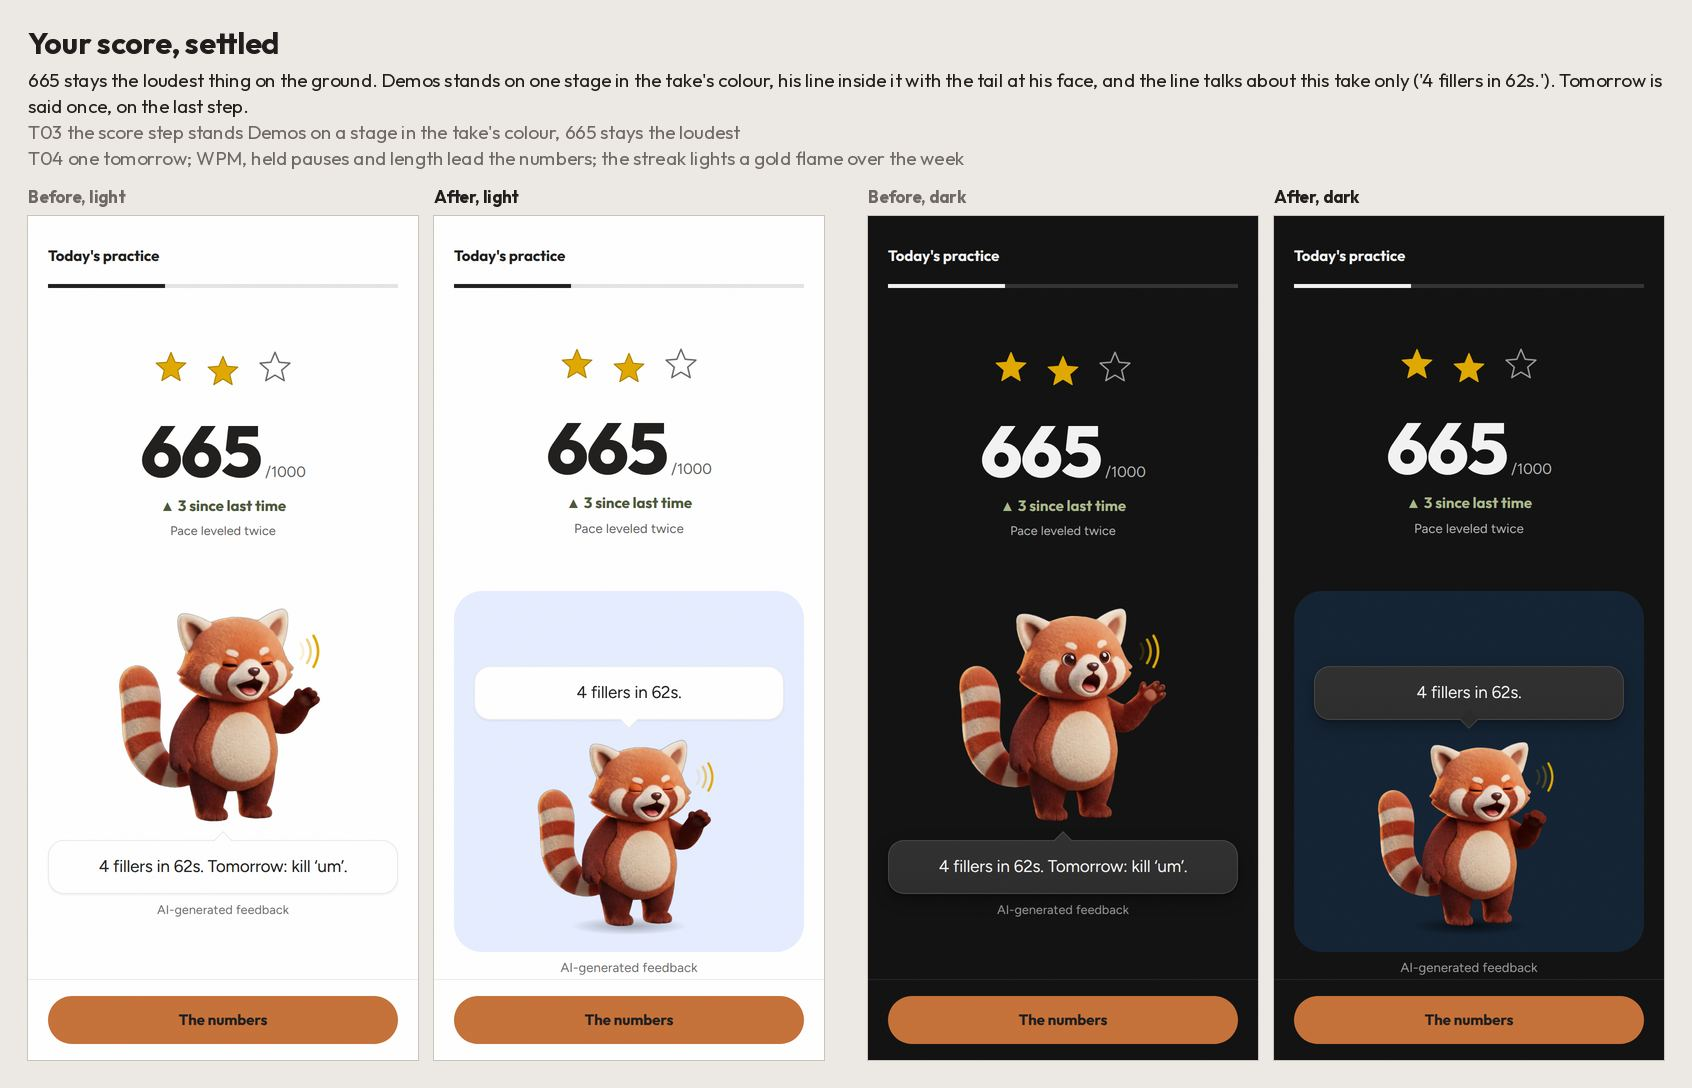
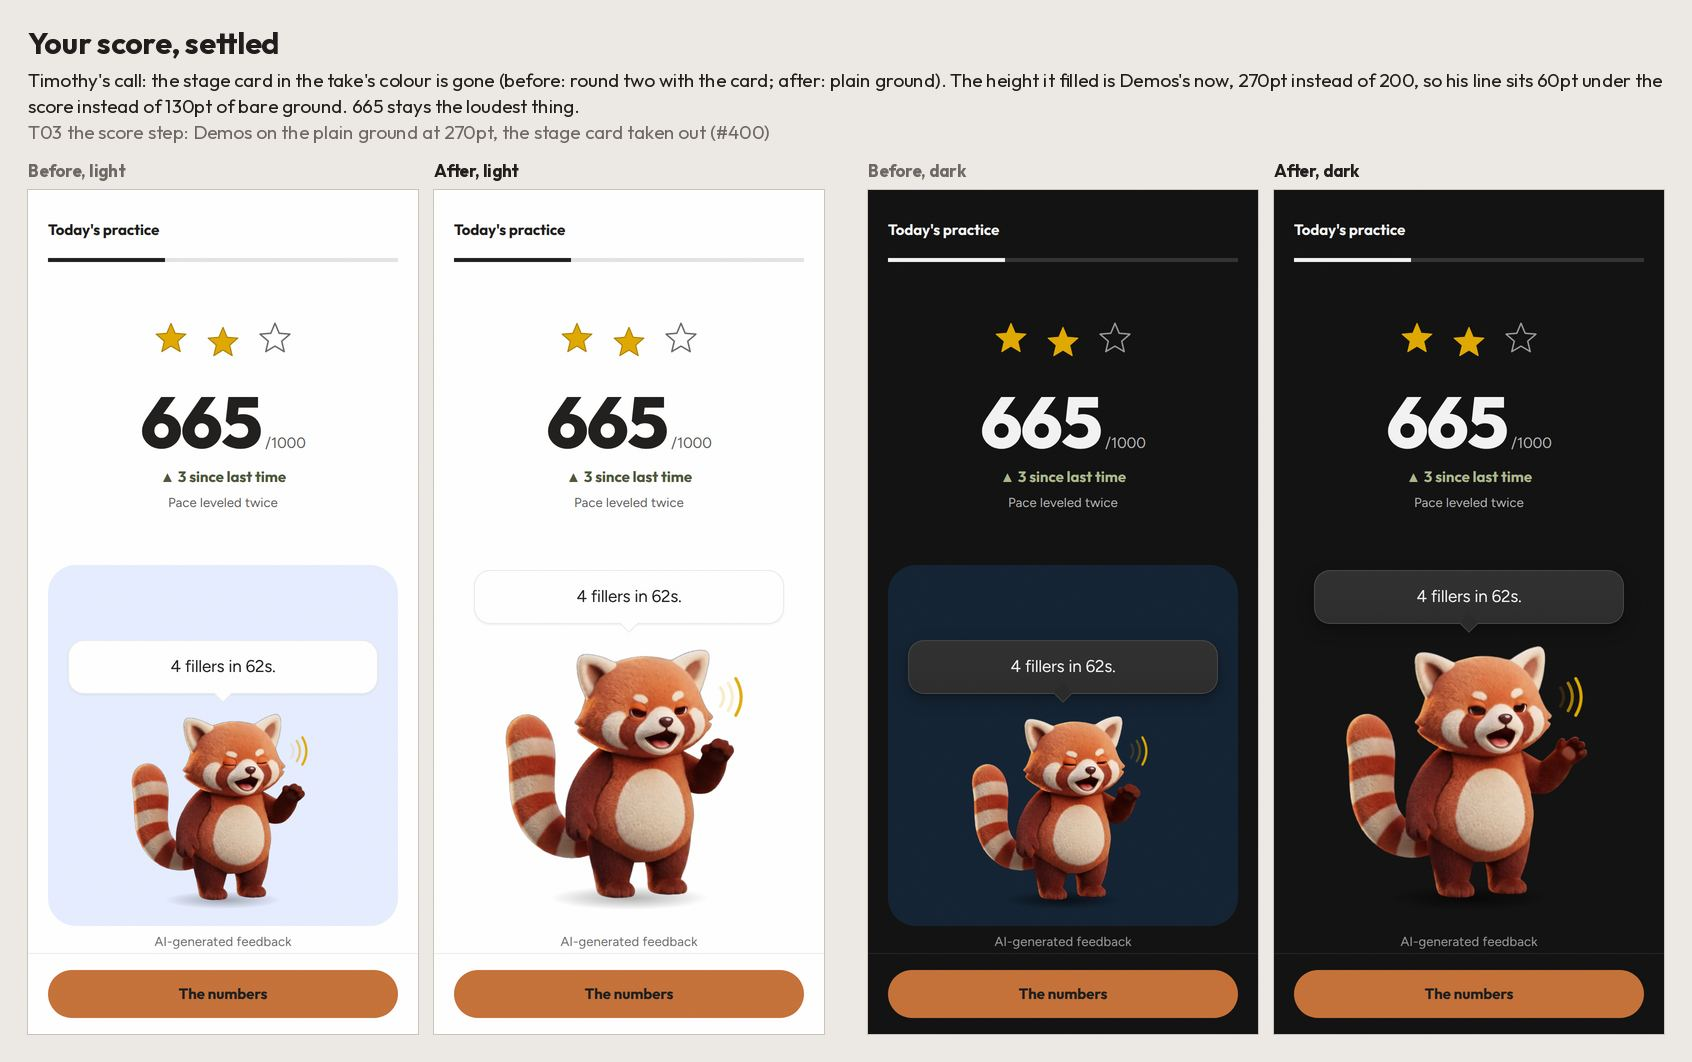
The score step's stage card is out: Demos stands on the plain ground and takes the height the card filled, up to 270pt on a tall phone, so his line sits 60pt under the score instead of 130pt of bare ground (#400)
Claude-Session: https://claude.ai/code/session_01KQpi1wPL2sdqgKKvt94vrP

diff --git a/components/RepResult.tsx b/components/RepResult.tsx
@@ -109,10 +109,9 @@ export function RepResult({
   celebrate?: boolean;
   /**
    * The score step fills a flex column (the recording page's walk): the
-   * score at the top, then Demos on a coach stage in the take's colour
-   * that takes all the free height (E55), then his line. The parent is
-   * a `flex flex-col` the height of the room, and sets `data-trait` to
-   * the practice's family (the sky's wash where it has none).
+   * score at the top, then Demos on the plain ground, sized to all the
+   * free height (E55), then his line. The parent is a `flex flex-col`
+   * the height of the room.
    */
   spread?: boolean;
 }) {
@@ -198,15 +197,14 @@ export function RepResult({
   );
 
   const spreads = spread && debrief;
-  /* On a phone 700pt or taller the stage has room for his line too:
+  /* On a phone 700pt or taller his room has space for his line too:
      it hangs over his head with its tail down at his face, so the step
-     reads as the score, then Demos saying it on his own ground (R2F-02:
-     at 390x844 the stage was 359pt holding only him, about 139pt of
-     bare wash over his ears, his line in a second card under it). On a
-     shorter phone the stage is about his height and the line hangs
-     under it, tail up. */
+     reads as the score, then Demos saying it (R2F-02: at 390x844 the
+     room was 359pt holding only him, about 139pt of bare ground over
+     his ears, his line in a second card under it). On a shorter phone
+     the room is about his height and the line hangs under it, tail up. */
   const tallRoom = useTallRoom();
-  const lineInStage = spreads && tallRoom;
+  const lineInRoom = spreads && tallRoom;
   const bubble = (tail: "up" | "down", className: string) => (
     <div
       className={`${className} ${timed ? "arrive" : ""}`}
@@ -217,11 +215,9 @@ export function RepResult({
       </SpeechBubble>
     </div>
   );
-  /* With his line in the stage, what the stage cannot use over his
-     head (about 120pt at 390x844) is shared out: up to 32pt over the
-     stars and 32pt over the stage, and the stage keeps the rest, so
-     the score breathes and the wash over his line stays under 80. */
-  const air = lineInStage ? <div aria-hidden className="max-h-8 flex-1" /> : null;
+  /* With his line in his room, up to 32pt of the spare height goes
+     over the stars so the score breathes; Demos takes the rest. */
+  const air = lineInRoom ? <div aria-hidden className="max-h-8 flex-1" /> : null;
   return (
     <>
       {show("score") && air}
@@ -230,8 +226,7 @@ export function RepResult({
           /* The debrief's score step (recording-6, M07, D52, E55): one
              centred column, stars first, then the number, one delta,
              one caption, on the ground 24px under the step bar; then
-             Demos on his stage and his line. Nothing floats off to one
-             side. */
+             Demos and his line. Nothing floats off to one side. */
           <div className={`flex flex-col items-center text-center ${spreads ? "mt-6 [@media(max-height:600px)]:mt-4" : ""}`}>
             {ethosIndex !== null ? (
               <>
@@ -323,37 +318,34 @@ export function RepResult({
         </p>
       )}
 
-      {show("score") && debrief && air}
       {show("score") && debrief && (
         /*
-         * E55, E58: the score step's free height is Demos's stage, not
+         * E55, E58: the score step's free height is Demos's, not bare
          * ground. Under the score (which stays the loudest thing, 665 at
-         * 72), a stage in the take's own colour (`--tone-wash` from the
-         * column's data-trait: #e6edff, #142333 dark, on a Pausing day;
-         * the sky's wash for the boss and the games) takes every spare
-         * pixel at radius 28, so the step reads as the score and a coach
-         * who stands somewhere. He stands centred on the introduction's
-         * soft contact shadow 20px over its foot, scaled to the stage
-         * (88 to 200: 100cqh less 20 over and 20 under), and his line
-         * hangs under it with its tail up at him. The celebrate pose,
-         * with its sparkles and burst, is only for a new best Index or
-         * three stars (lib/rewards `celebrates`). It used to be three
-         * even bands of bare ground with a 228px Demos as the step's
-         * biggest object (D52).
+         * 72), he stands centred on the introduction's soft contact
+         * shadow, scaled to every spare pixel, with his line over his
+         * head on a tall phone and under him on a short one. No card
+         * behind him: Timothy took the stage in the take's colour out
+         * (T03 reverted, #400), so he stands on the screen's own ground
+         * the way he does in the introduction, and the height the stage
+         * filled is his: up to 270 on a tall phone, where 200 left 130pt
+         * of bare ground over his line at 390x844. The celebrate
+         * pose, with its sparkles and burst, is only for a new best
+         * Index or three stars (lib/rewards `celebrates`).
          */
         <div className="flex w-full flex-1 flex-col items-center">
-          {/* The stage's room is an absolute inset-0 size container (as
+          {/* His room is an absolute inset-0 size container (as
               `.demos-fit-room`): a flex-grown box's own height is not one
               its container units can read. On a phone under 600px tall
               (320x568) there is no spare height to give: the score and
-              the stage close up 8px each, the stage takes what is left
+              the room close up 8px each, the room takes what is left
               over his line, so the line stays over the shelf, and he
               stands 8px over its foot from 64px up. */}
           <div
-            data-coach-stage
-            data-line-in-stage={lineInStage || undefined}
-            className={`relative mt-5 w-full rounded-[28px] bg-[var(--tone-wash,var(--pop-sky-wash))] [@media(max-height:600px)]:mt-3 ${
-              lineInStage
+            data-coach-room
+            data-line-in-room={lineInRoom || undefined}
+            className={`relative mt-5 w-full [@media(max-height:600px)]:mt-3 ${
+              lineInRoom
                 ? "min-h-[300px] flex-1"
                 : spreads
                   ? "min-h-[140px] flex-1 [@media(max-height:600px)]:min-h-0"
@@ -361,24 +353,24 @@ export function RepResult({
             }`}
           >
             <div className="absolute inset-0 [container-type:size]">
-            {/* With his line in the stage, he gives it two lines of room
-                (78), 12px to his head and 20 to the stage's top: 88 to
-                200 from 100cqh less 130. */}
+            {/* With his line in his room, he gives it two lines of space
+                (78) and 12px to his head: 88 to 270 from 100cqh less
+                110. */}
             <div
               className={`absolute bottom-5 left-1/2 -translate-x-1/2 [container-type:size] ${
-                lineInStage
-                  ? "size-[clamp(88px,calc(100cqh_-_130px),200px)]"
+                lineInRoom
+                  ? "size-[clamp(88px,calc(100cqh_-_110px),270px)]"
                   : "size-[clamp(88px,calc(100cqh_-_40px),200px)] [@media(max-height:600px)]:bottom-2 [@media(max-height:600px)]:size-[clamp(64px,calc(100cqh_-_12px),200px)]"
               }`}
             >
               {celebrating ? (
                 /* The still, not the clip: the celebrate clip's alpha
-                   leaves a white matte over his head on a coloured
-                   stage (it only ever stood on the plain ground). */
+                   leaves a white matte over his head on anything but
+                   the plain light ground. */
                 <DemosArt
                   key="celebrate"
                   pose="celebrate"
-                  size={200}
+                  size={lineInRoom ? 270 : 200}
                   fit
                   grounded
                   idle={false}
@@ -389,7 +381,7 @@ export function RepResult({
                 <DemosArt
                   key="speaking"
                   pose="speaking"
-                  size={200}
+                  size={lineInRoom ? 270 : 200}
                   fit
                   grounded
                   greetAfterMs={timed && !celebrate ? bubbleAt + SAID_AFTER_MS : undefined}
@@ -403,14 +395,14 @@ export function RepResult({
                 </span>
               )}
             </div>
-            {lineInStage &&
+            {lineInRoom &&
               bubble(
                 "down",
-                "absolute inset-x-5 bottom-[calc(20px_+_clamp(88px,calc(100cqh_-_130px),200px)_+_12px)] text-left"
+                "absolute inset-x-5 bottom-[calc(20px_+_clamp(88px,calc(100cqh_-_110px),270px)_+_12px)] text-left"
               )}
             </div>
           </div>
-          {!lineInStage && bubble("up", "mt-3 w-full text-left")}
+          {!lineInRoom && bubble("up", "mt-3 w-full text-left")}
           {coach && (
             <p
               className={`mt-2 text-center text-caption text-stone-400 ${timed ? "arrive" : ""}`}

diff --git a/app/rep/page.tsx b/app/rep/page.tsx
@@ -1906,8 +1906,6 @@ function Results({
   /* Where this recording came from, if a lesson sent it (#258). Read
      here rather than threaded down through eighteen props. */
   const backTo = safeBack(searchParams.get("back"));
-  /* The family the take wore (D50), for the score step's coach stage. */
-  const family = practiceFamily(config, searchParams.get("trait"));
   const [step, setStep] = useState(0);
   const section = STEPS[step].key;
   /*
@@ -2219,12 +2217,8 @@ function Results({
             <TesterPaused back="/" className="mt-2 mb-7 border-b border-hairline pb-4" />
           )}
 
-          {/* The take's colour (D50, E55): the score step's coach stage
-              reads `--tone-wash` from here; the sky's wash with none. */}
-          <div
-            className={step === 0 ? "flex flex-1 flex-col" : undefined}
-            data-trait={step === 0 && family !== "sky" ? family : undefined}
-          >
+          {/* The score step's column (E55): Demos takes its free height. */}
+          <div className={step === 0 ? "flex flex-1 flex-col" : undefined}>
             <RepResult
               result={result}
               topic={config.topic}

diff --git a/DECISIONS.md b/DECISIONS.md
@@ -733,6 +733,8 @@ The build had a critic and a fix round of 16 items. It passed 2478 tests and the
 
 399. 2026-10-31 · **Testers agree to Timothy's full list, and the test runs from 30 October** · Timothy started the test on Friday 30 October (to Thursday 12 November) instead of the Monday planned, and about twenty friends said yes. Consent version 3 is his full list in Ethos voice: recordings (and video if the camera is on), transcripts, scores, every answer, how the app is used, the device, the connection and IP, and errors with what was on screen; only Timothy sees it, nothing is sold, it goes only to the services named in Privacy, kept 12 months after the test, deleted within 7 days of asking. A tester on version 1 or 2 is asked once on their next open with no code, and until they agree, results and the Log say "Testing is paused." with Agree again. Only a version 3 tester's phone sends anything: a device snapshot per open, screens with time on them, taps by their name, shown and hidden, recordings started and stopped, and errors with the screen and the last few events; never typed text, the code, other sites, or anything from a non-tester. One server route (`app/api/tester/collect`) checks the session and consent before reading a field and writes `public.tester_events` (0022) with the service role. Around each recording: "How did that feel?" (Rough, Okay, Strong, or Skip) before the score, "Did 665 feel right?" (Too low, About right, Too high) after it. Shipped to main at 480c939 with the hand-off still held back; 0022 applied after the deploy and proven on production in a rolled-back run. In the gap between the two (the container restarted mid-ship), one tester's device and usage batches were refused six times and are lost; answers waited on the phone. On the ship tree: tsc, 2752 tests, the SQL check, the build, the six browser gates and the collect gate at 26/26.
 
+400. 2026-10-31 · **The score step's stage card is out; Demos takes its height** · Timothy: "remove the scored settled bg card". Round two's T03 (a98720d) stood Demos on a rounded card in the take's colour (`--tone-wash`, #e6edff light and #142333 dark on a Pausing day) that took every spare pixel under the score. The card is gone and the recording page no longer sets `data-trait` on the score step's column. Taking it out alone left 130px of bare ground between "Pace leveled twice" and his line at 390x844 (check-gaps failed, rule 7), so the height is his now: on a phone 700pt or taller he grows to 270pt (was 200) with his line over his head, and the 32pt of air that sat between the score and the card is gone; the largest band is 60px, and 665 is still the heaviest thing on the screen. Under 700pt nothing moved but the card. The celebrate pose stays the still (its clip's matte). Shot at 390x844 and 320x568, light and dark, and on a new best: `docs/look/debate-2/25-score-settled.jpg`, `26-score-new-best.jpg`. Breaks #368's "a stage takes the spare room" on this screen by Timothy's live call; the room goes to the art instead.
+
 ## Open queue (research-once, decide, move up)
 
 - Currency name — after launch copywriting pass

diff --git a/docs/design-debate.md b/docs/design-debate.md
@@ -169,7 +169,7 @@ The sheet gesture files, the migrations and the protected tester files were not 
 
 1. **T01, Start carries its practice.** The recording card heads "Today's practice" with the practice's angle ("The gap that reads as certain"), tile 1 is the tactic Today named ("Pause after the full stop"), "You didn't pick this one." is gone, and day one wears the colour of The baseline it opens (Fillers).
 2. **T02, the object comes along.** The recording card stands the glass object Today's card held, in the band that stood empty, and lets it go on Record's own spring.
-3. **T03, the score step.** The score stands on the ground, a stage in the take's colour takes every spare pixel under it, and Demos stands on that stage at 200pt (143 on a 375x667 phone) with his line below; 665 is still the largest thing on the screen.
+3. **T03, the score step.** The score stands on the ground, a stage in the take's colour takes every spare pixel under it, and Demos stands on that stage at 200pt (143 on a 375x667 phone) with his line below; 665 is still the largest thing on the screen. Later reverted by Timothy (#400): the stage card is gone, and Demos takes its height on the plain ground, up to 270pt.
 4. **T04, one tomorrow.** Demos's line on the score step talks about this take ("4 fillers in 62s.") and never says Tomorrow, the numbers step leads with WPM, held pauses and length, and the streak lights a 64pt gold flame over a Monday-to-Sunday week.
 5. **T05, the tester's last step.** "Testing Ethos" sits over the match question, Save note is a pill, and the felt stage's "Recorded" is sentence case. The felt stage's colour change is held for you (E56).
 6. **T06, honest zeros and one unit.** A new account's Log reads a dash over / 1000 with "Your first recording sets it.", and the per-minute rate reads "All fillers / min" on the Log and the shared picture, and "All fillers a minute" on You's Day 1 vs now card.
